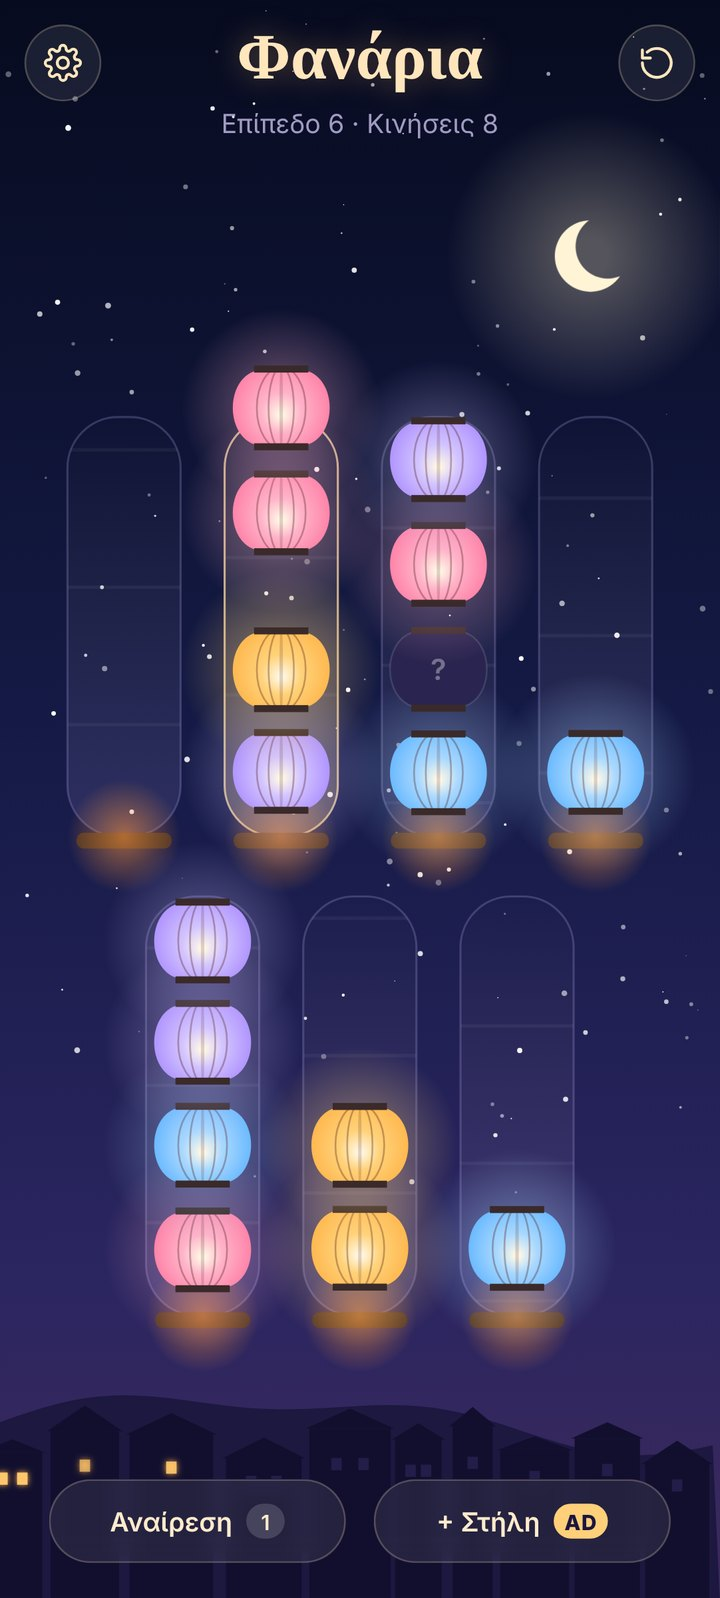
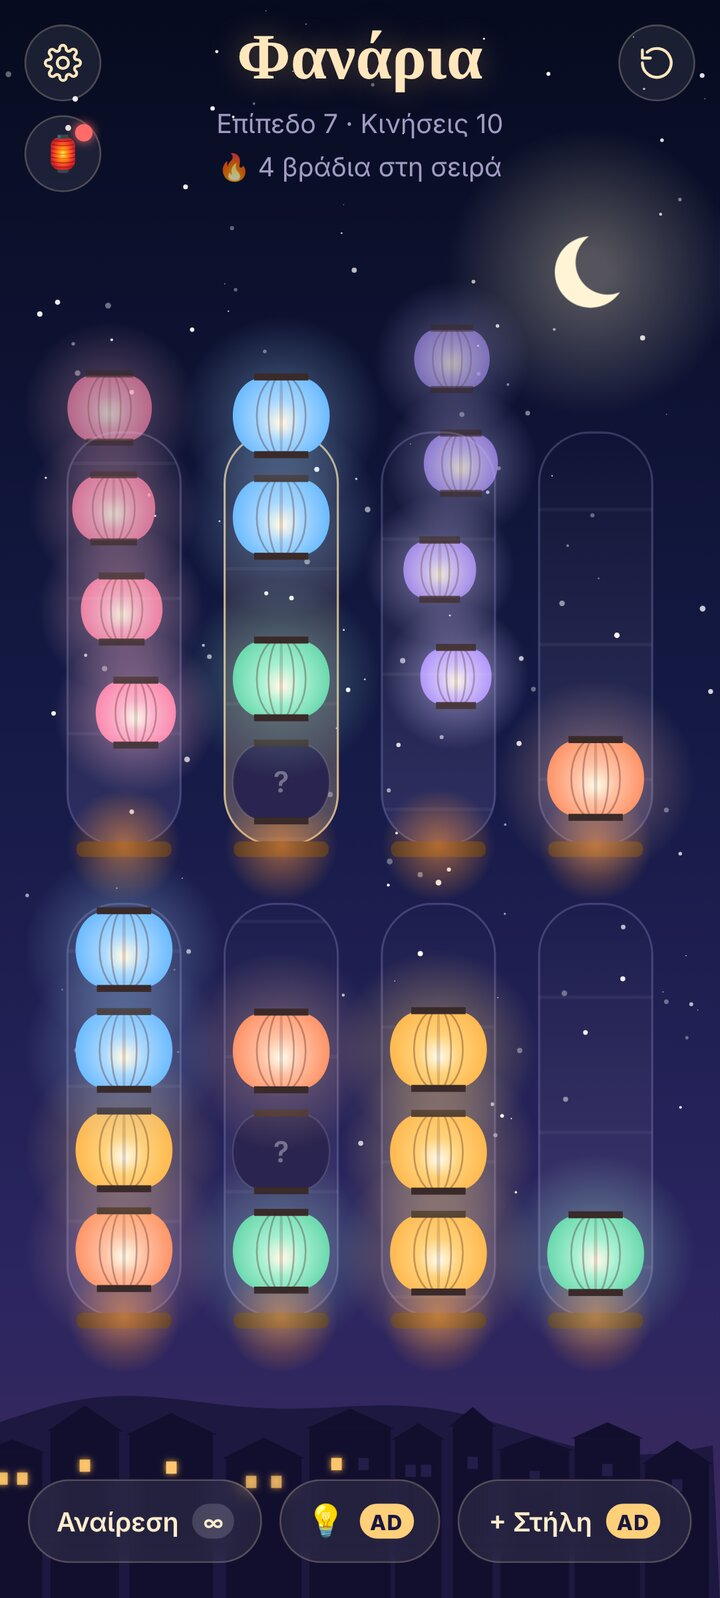
v1.1.0: new screenshots, features and changelog

diff --git a/README.md b/README.md
@@ -16,9 +16,9 @@
 
 <p align="center">
   <img src="docs/screenshots/1-play.jpg" width="24%" alt="Ταξινομείς φανάρια ανά χρώμα">
-  <img src="docs/screenshots/2-hidden-lanterns.jpg" width="24%" alt="Κρυφά φανάρια με ερωτηματικό">
-  <img src="docs/screenshots/3-lanterns-fly.jpg" width="24%" alt="Τα γεμάτα φανάρια πετούν στον ουρανό">
-  <img src="docs/screenshots/4-settings.jpg" width="24%" alt="Ρυθμίσεις με λειτουργία ύπνου">
+  <img src="docs/screenshots/5-daily.jpg" width="24%" alt="Φανάρι της ημέρας">
+  <img src="docs/screenshots/4-win.jpg" width="24%" alt="Αστέρια σε κάθε επίπεδο">
+  <img src="docs/screenshots/6-xmas-lake.jpg" width="24%" alt="Χριστουγεννιάτικο θέμα στη λίμνη">
 </p>
 
 ## Στα ελληνικά
@@ -27,10 +27,16 @@
 
 - **Ήρεμο αλλά δύσκολο:** χωρίς χρονόμετρο. Η δυσκολία έρχεται από τη σκέψη, με κρυφά φανάρια «?» που δείχνουν το χρώμα τους μόνο όταν βρεθούν στην κορυφή.
 - **Κάθε επίπεδο λύνεται:** τα επίπεδα φτιάχνονται αυτόματα και ελέγχονται πριν τα δεις.
-- **Λειτουργία ύπνου:** από την ώρα που διαλέγεις, ζεστότερα χρώματα, πιο απαλός ήχος και καθόλου διαφημίσεις ανάμεσα στα επίπεδα.
+- **Φανάρι της ημέρας:** ένα νέο παζλ κάθε μέρα, ίδιο για όλους, με σερί ημερών 🔥.
+- **Αστέρια:** λύσε με λίγες κινήσεις για ⭐⭐⭐.
+- **Τοπία για συλλογή:** χωριό, λίμνη, βουνά και θάλασσα με φάρο ξεκλειδώνονται καθώς προχωράς.
+- **Εποχικά θέματα:** χιόνι και λαμπάκια τα Χριστούγεννα, κομφετί στις Απόκριες.
+- **Βοήθεια 💡:** δείχνει την επόμενη σωστή κίνηση. Αν κολλήσεις, το παιχνίδι το καταλαβαίνει και σου προτείνει λύση.
+- **Εύκολη αρχή:** σύντομος οδηγός και απεριόριστες αναιρέσεις στα πρώτα 10 επίπεδα.
+- **Λειτουργία ύπνου:** από την ώρα που διαλέγεις, ζεστότερα χρώματα και πιο απαλός ήχος. Προαιρετική βραδινή υπενθύμιση.
 - **Απαλή μουσική και ήχοι**, δόνηση, Ελληνικά και English.
 - **Ενημερώσεις:** η εφαρμογή ελέγχει μόνη της κάθε 6 ώρες για νέα έκδοση.
-- **Δωρεάν**, με προαιρετικές διαφημίσεις για αναίρεση ή επιπλέον στήλη.
+- **Δωρεάν**, με διαφημίσεις και προαιρετικές διαφημίσεις για βοήθεια, αναίρεση ή επιπλέον στήλη.
 
 ### Εγκατάσταση
 1. Πάτα **Download APK** από το κινητό σου.
@@ -43,14 +49,22 @@ Paper lanterns float in columns of warm air. Sort them so each column holds one 
 
 - **Calm, not easy:** no timers. Hidden "?" lanterns show their color only when they reach the top.
 - **Every level is solvable:** levels are generated and checked before you see them.
-- **Sleep mode:** from the hour you choose, warmer colors, softer sound and no ads between levels.
+- **Daily lantern:** a new puzzle every day, the same for everyone, with a 🔥 streak.
+- **Stars:** solve in few moves for ⭐⭐⭐.
+- **Landscapes to collect:** village, lake, mountains and a seaside lighthouse unlock as you play.
+- **Seasonal themes:** snow and string lights at Christmas, confetti at Carnival.
+- **Hints 💡:** shows the next right move. If you get stuck, the game notices and offers a way out.
+- **Gentle start:** a short tutorial and unlimited undo for the first 10 levels.
+- **Sleep mode:** from the hour you choose, warmer colors and softer sound. Optional evening reminder.
 - **Soft music and sounds**, vibration, Greek and English.
 - **Updates:** the app checks for a new version every 6 hours.
-- **Free**, with optional ads for an undo or an extra column.
+- **Free**, with ads, plus optional ads for a hint, an undo or an extra column.
 
 <p align="center">
-  <img src="docs/screenshots/5-other-apps.jpg" width="24%" alt="Our other apps">
-  <img src="docs/screenshots/6-english.jpg" width="24%" alt="Lanterns in English">
+  <img src="docs/screenshots/7-carnival-sea.jpg" width="24%" alt="Carnival theme by the sea">
+  <img src="docs/screenshots/9-collection.jpg" width="24%" alt="Landscape collection">
+  <img src="docs/screenshots/3-hint.jpg" width="24%" alt="Hint">
+  <img src="docs/screenshots/12-en.jpg" width="24%" alt="Lanterns in English">
 </p>
 
 ## Περισσότερες εφαρμογές · More apps

diff --git a/CHANGELOG.md b/CHANGELOG.md
@@ -1,5 +1,20 @@
 # Changelog
 
+## v1.1.0
+- **Φανάρι της βραδιάς:** ένα καθημερινό επίπεδο, ίδιο για όλους, με streak 🔥.
+- **Αστέρια** (1–3) σε κάθε επίπεδο, ανάλογα με τις κινήσεις.
+- **Συλλογή τοπίων:** λίμνη (επ. 10), βουνά (επ. 20), θάλασσα με φάρο και βαρκούλες (επ. 30).
+- **Εποχιακά θέματα:** Χριστούγεννα (χιόνι, λαμπάκια, γιορτινά χρώματα) και Απόκριες (κομφετί), αυτόματα ανάλογα με την ημερομηνία ή με επιλογή.
+- **Βραδινή υπενθύμιση** μία φορά τη μέρα (προαιρετική).
+- **Υπόδειξη 💡** που δείχνει την επόμενη σωστή κίνηση.
+- **«Κόλλησες;»:** όταν δεν υπάρχει δρόμος προς τη λύση, προσφέρεται επιπλέον στήλη ή αναίρεση.
+- **Διπλά φώτα** στο χωριό στο τέλος του επιπέδου.
+- **Οδηγός** με χεράκι στα 2 πρώτα επίπεδα και απεριόριστη αναίρεση ως το επίπεδο 10.
+- Σπίθες και κύμα φωτός όταν απογειώνεται μια στήλη.
+- Η λειτουργία ύπνου κρατά τα ζεστά χρώματα και τον απαλό ήχο. Οι διαφημίσεις ανάμεσα στα επίπεδα εμφανίζονται κανονικά.
+- Μικρότερο APK.
+- Έτοιμος κώδικας για αγορά «Χωρίς διαφημίσεις» και για AdMob mediation (ενεργοποιούνται με τους λογαριασμούς Play/AdMob).
+
 ## v1.0.0
 - Πρώτη έκδοση: ταξινόμηση φαναριών, κρυφά φανάρια «?», επίπεδα που λύνονται πάντα.
 - Ρυθμίσεις: ήχοι, μουσική, δόνηση, λειτουργία ύπνου, γλώσσα (Ελληνικά / English).
